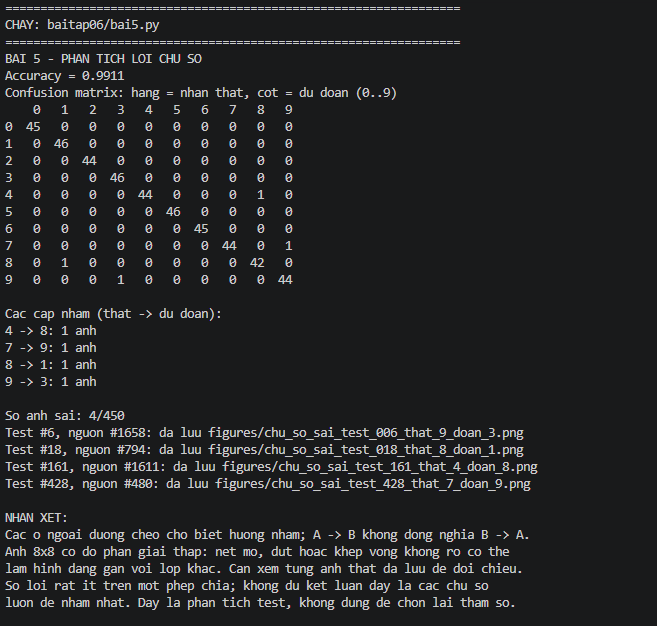
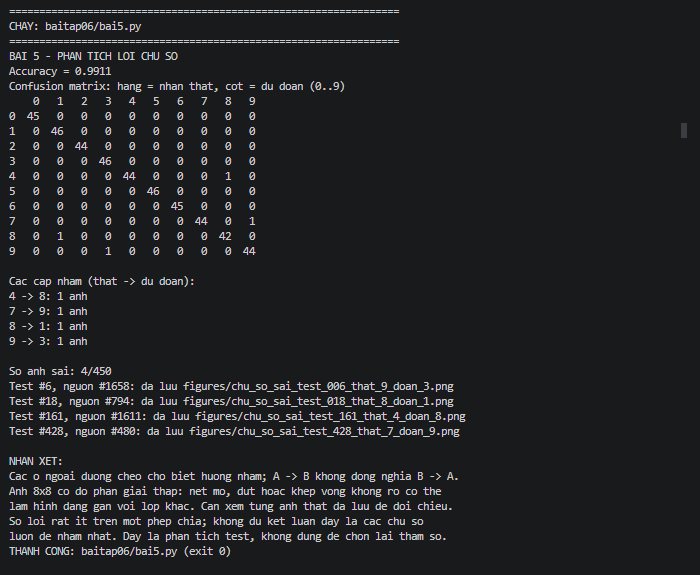
Update Lab 6 SVM with new datasets

Changed region(s): [[0.0, 0.0, 0.8219, 0.9757], [0.9741, 0.207, 1.0, 0.2365]]

diff --git a/bai06_svm/scripts/run_all.py b/bai06_svm/scripts/run_all.py
@@ -4,6 +4,7 @@ import os
 from pathlib import Path
 import subprocess
 import sys
+import traceback
 
 
 DANH_SACH = [
@@ -16,11 +17,12 @@ DANH_SACH = [
 
 def main():
     thu_muc_goc = Path(__file__).resolve().parents[1]
+    print("Interpreter:", sys.executable, flush=True)
+    print("Thu muc lam viec:", thu_muc_goc, flush=True)
     cac_csv = ["data/sinh_vien.csv", "data/sinh_vien_mo_rong.csv", "data/hai_vang_trang.csv"]
     thieu = [tep for tep in cac_csv if not (thu_muc_goc / tep).is_file()]
     if thieu:
-        print("LOI: thieu CSV: " + ", ".join(thieu), file=sys.stderr)
-        return 1
+        raise FileNotFoundError("Thieu CSV bat buoc: " + ", ".join(thieu))
     moi_truong = os.environ.copy()
     moi_truong["PYTHONIOENCODING"] = "utf-8"
     moi_truong["PYTHONDONTWRITEBYTECODE"] = "1"
@@ -32,12 +34,15 @@ def main():
             ket_qua = subprocess.run([sys.executable, "-u", tep], cwd=thu_muc_goc,
                                      env=moi_truong, check=False)
         except OSError as loi:
+            traceback.print_exc()
             print(f"LOI {tep}: {loi}", file=sys.stderr, flush=True)
             cac_bai_loi.append(tep)
             continue
         if ket_qua.returncode != 0:
             print(f"LOI {tep}: exit code {ket_qua.returncode}", file=sys.stderr, flush=True)
             cac_bai_loi.append(tep)
+        else:
+            print(f"THANH CONG: {tep} (exit 0)", flush=True)
     if cac_bai_loi:
         print("CAC BAI BI LOI: " + ", ".join(cac_bai_loi), file=sys.stderr)
         return 1
